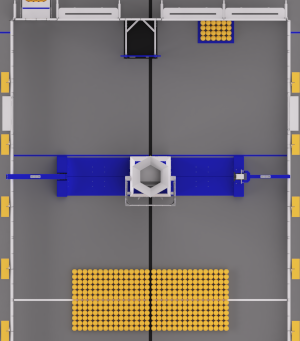
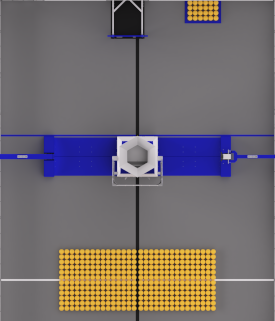
match planner stats

Changed region(s): [[0.0, 0.0, 1.0, 1.0]]

diff --git a/www/2026/aggregate-stats.js b/www/2026/aggregate-stats.js
@@ -46,7 +46,6 @@ function aggregateStats(scout, aggregate, apiScores, subjective, pit, eventStats
 	scout.bump_outpost_alliance_to_neutral = scout.auto_bump_outpost_alliance_to_neutral + scout.tele_bump_outpost_alliance_to_neutral
 	scout.bump_outpost_neutral_to_alliance = scout.auto_bump_outpost_neutral_to_alliance + scout.tele_bump_outpost_neutral_to_alliance
 	scout.climb_level = scout.auto_climb_level + scout.tele_climb_level
-	scout.climb_position = scout.auto_climb_position + scout.tele_climb_position
 	scout.collect_depot = scout.auto_collect_depot + scout.tele_fuel_alliance_dump
 	scout.collect_outpost = scout.auto_collect_outpost + scout.tele_fuel_outpost
 	scout.fuel_neutral_alliance_pass = scout.auto_fuel_neutral_alliance_pass + scout.tele_fuel_neutral_alliance_pass
@@ -152,6 +151,12 @@ function aggregateStats(scout, aggregate, apiScores, subjective, pit, eventStats
 	aggregate.count = (aggregate.count||0)+1
 	aggregate.max_score = Math.max(aggregate.max_score||0,scout.score||0)
 	aggregate.min_score = Math.min(aggregate.min_score===undefined?999:aggregate.min_score,scout.score||0)
+
+	pit.auto_paths=[]
+	for (var i=1; i<=9; i++){
+		var path=pit[`auto_${i}_path`]
+		if (path) pit.auto_paths.push(path)
+	}
 }
 
 var statInfo={
@@ -466,7 +471,15 @@ var statInfo={
 	},
 	auto_climb_position:{
 		en: 'Climb Position in Auto',
-		type: '%',
+		type: 'heatmap',
+		image: "/2026/climb-area-blue.png",
+		aspect_ratio: 1,
+		whiteboard_start: 0,
+		whiteboard_end: 12,
+		whiteboard_left: 35,
+		whiteboard_right: 72,
+		whiteboard_char: "A",
+		whiteboard_us: true,
 		fr:'Position d\'escalade en auto',
 		pt:'Posição de escalada no Auto',
 		zh_tw:'自動攀爬位置',
@@ -510,13 +523,19 @@ var statInfo={
 		he:'ציון דלק באוטומט',
 	},
 	auto_start:{
-		en: 'Start in Auto',
-		type: '%',
-		fr:'Démarrer en auto',
-		pt:'Iniciar no Auto',
-		zh_tw:'自動開始',
-		tr:'Otomatik Başlangıç',
-		he:'התחל באוטומט',
+		name: "Location where the robot starts",
+		type: "heatmap",
+		image: "/2025/start-area-blue.png",
+		aspect_ratio: 3.375,
+		whiteboard_start: 15.5,
+		whiteboard_end: 30.5,
+		whiteboard_char: "□",
+		whiteboard_us: true,
+		fr:'Lieu de départ du robot',
+		pt:'Local onde o robô começa',
+		zh_tw:'機器人啟動的位置',
+		tr:'Robotun başladığı yer',
+		he:'המיקום שבו הרובוט מתחיל',
 	},
 	auto_trench_depot_alliance_to_neutral:{
 		en: 'Trench (Depot Side) Alliance To Neutral in Auto',
@@ -690,7 +709,15 @@ var statInfo={
 	},
 	tele_climb_position:{
 		en: 'Climb Position in Teleop',
-		type: '%',
+		type: 'heatmap',
+		image: "/2026/climb-area-blue.png",
+		aspect_ratio: 1,
+		whiteboard_start: 0,
+		whiteboard_end: 12,
+		whiteboard_left: 35,
+		whiteboard_right: 72,
+		whiteboard_char: "T",
+		whiteboard_us: true,
 		fr:'Position d\'escalade en téléop',
 		pt:'Posição de escalada no Teleop',
 		zh_tw:'遙控攀爬位置',
@@ -1101,15 +1128,6 @@ var statInfo={
 		zh_tw:'攀爬等級',
 		tr:'Tırmanma Seviyesi',
 		he:'רמת טיפוס',
-	},
-	climb_position:{
-		en:'Climb Position',
-		type:'%',
-		fr:'Position d\'escalade',
-		pt:'Posição de Escalada',
-		zh_tw:'攀爬位置',
-		tr:'Tırmanma Pozisyonu',
-		he:'מיקום טיפוס',
 	},
 	collect_depot:{
 		en:'Collected Depot',
@@ -1588,6 +1606,34 @@ var statInfo={
 		tr:'Rakip Zamanı',
 		he:'זמן יריב',
 	},
+	auto_paths:{
+		name: "Auto Paths",
+		type: "pathlist",
+		aspect_ratio: .916,
+		whiteboard_start: 0,
+		whiteboard_end: 55,
+		whiteboard_us: true,
+		source: "pit",
+		fr:'Trajectoires automatiques',
+		pt:'Caminhos Automáticos',
+		zh_tw:'自動路徑',
+		tr:'Otomatik Yollar',
+		he:'נתיבים אוטומטיים',
+	},
+	shooting_locations:{
+		en:'Defendable Shooting Locations',
+		type: "heatmap",
+		aspect_ratio: .916,
+		whiteboard_start: 0,
+		whiteboard_end: 30,
+		whiteboard_us: false,
+		whiteboard_char: 'D',
+		fr:'Emplacements de tir défendables',
+		pt:'Locais de Tiro Defensáveis',
+		zh_tw:'可防守射擊位置',
+		tr:'Savunulabilir Atış Konumları',
+		he:'מיקומי ירי שניתן להגן עליהם',
+	},
 }
 
 var teamGraphs={
@@ -1697,6 +1743,15 @@ var whiteboardStats=[
 	"score",
 	"auto_score",
 	"tele_score",
+	"fuel_output",
+	"tele_alliance_time",
+	"tele_neutral_time",
+	"tele_opponent_time",
+	"shooting_locations",
+	"auto_climb_position",
+	"tele_climb_position",
+	"auto_start",
+	"auto_paths",
 ]
 
 // https://www.postman.com/firstrobotics/workspace/frc-fms-public-published-workspace/example/13920602-f345156c-f083-4572-8d4a-bee22a3fdea1

diff --git a/www/2026/scout.js b/www/2026/scout.js
@@ -997,10 +997,7 @@ $(document).ready(function(){
 	})
 	window.onShowScouting = window.onShowScouting || []
 	window.onShowScouting.push(function(){
-		setTimeout(initialRobotStartPosition,500)
-		setTimeout(initialRobotAutoClimbPosition,500)
-		setTimeout(initialRobotTeleClimbPosition,500)
-		setTimeout(drawAllShootingLocations,500)
+		setTimeout(initialRobotStartPosition,0)
 		initScouting2026()
 		renderTimeline()
 		return true
@@ -1020,6 +1017,16 @@ $(document).ready(function(){
 	window.onInputChanged.push(inputChanged2026)
 
 	onApplyTranslation.push(renderTimeline)
+
+	window.onShowTab = window.onShowTab || []
+	window.onShowTab.push(function(tabName){
+		if (tabName==='end-game'){
+			setTimeout(drawAllShootingLocations, 0)
+			setTimeout(initialRobotAutoClimbPosition, 0)
+			setTimeout(initialRobotTeleClimbPosition, 0)
+			toggleClimbPosition()
+		}
+	})
 
 	function initScouting2026(){
 		matchStartTime = 0
@@ -1189,28 +1196,28 @@ $(document).ready(function(){
 
 	function initialRobotStartPosition(){
 		moveFloaterToPercentCoordinates(
-			document.getElementById('start-area'),
+			$('#start-area')[0],
 			pos.startsWith('R'),
 			$('#auto-start-input').val()||"6x16",
-			document.getElementById('robot-starting-position')
+			$('#robot-starting-position')[0]
 		)
 	}
 
 	function initialRobotAutoClimbPosition(){
 		moveFloaterToPercentCoordinates(
-			document.getElementById('auto-climb-area'),
+			$('#auto-climb-area')[0],
 			pos.startsWith('R'),
-			$('#auto-climb-position-input').val()||"50x50",
-			document.getElementById('robot-auto-climb-position')
+			$('#auto-climb-position-input').val()||"6x6",
+			$('#robot-auto-climb-position')[0]
 		)
 	}
 
 	function initialRobotTeleClimbPosition(){
 		moveFloaterToPercentCoordinates(
-			document.getElementById('tele-climb-area'),
+			$('#tele-climb-area')[0],
 			pos.startsWith('R'),
-			$('#tele-climb-position-input').val()||"50x50",
-			document.getElementById('robot-tele-climb-position')
+			$('#tele-climb-position-input').val()||"6x6",
+			$('#robot-tele-climb-position')[0]
 		)
 	}
 
@@ -1234,9 +1241,9 @@ $(document).ready(function(){
 	}
 
 	function setRobotStartPosition(e){
-		var mi = document.getElementById('start-area'),
-		fi = document.getElementById('robot-starting-position'),
-		ir = "none"==(""+getComputedStyle($('#start-area')[0]).transform),
+		var mi = $('#start-area')[0],
+		fi = $('#robot-starting-position')[0],
+		ir = "none"==(""+getComputedStyle(mi).transform),
 		co = getPercentCoordinates(e,mi,ir,ir,true)
 		moveFloaterToPercentCoordinates(mi,ir,co,fi)
 		$('#auto-start-input').val(co)
@@ -1249,9 +1256,9 @@ $(document).ready(function(){
 	$('#start-area').click(setRobotStartPosition)
 
 	function setRobotAutoClimbPosition(e){
-		var mi = document.getElementById('auto-climb-area'),
-		fi = document.getElementById('robot-auto-climb-position'),
-		ir = "none"==(""+getComputedStyle($('#auto-climb-area')[0]).transform),
+		var mi = $('#auto-climb-area')[0],
+		fi = $('#robot-auto-climb-position')[0],
+		ir = "none"==(""+getComputedStyle(mi).transform),
 		co = getPercentCoordinates(e,mi,ir,ir,true)
 		moveFloaterToPercentCoordinates(mi,ir,co,fi)
 		$('#auto-climb-position-input').val(co)
@@ -1264,9 +1271,9 @@ $(document).ready(function(){
 	$('#auto-climb-area').click(setRobotAutoClimbPosition)
 
 	function setRobotTeleClimbPosition(e){
-		var mi = document.getElementById('tele-climb-area'),
-		fi = document.getElementById('robot-tele-climb-position'),
-		ir = "none"==(""+getComputedStyle($('#tele-climb-area')[0]).transform),
+		var mi = $('#tele-climb-area')[0],
+		fi = $('#robot-tele-climb-position')[0],
+		ir = "none"==(""+getComputedStyle(mi).transform),
 		co = getPercentCoordinates(e,mi,ir,ir,true)
 		moveFloaterToPercentCoordinates(mi,ir,co,fi)
 		$('#tele-climb-position-input').val(co)
@@ -1292,7 +1299,7 @@ $(document).ready(function(){
 	}
 
 	$('#shooting-locations').click(function(e){
-		var mi = document.getElementById('shooting-locations'),
+		var mi = $('#shooting-locations')[0],
 		isRotated = "none"==(""+getComputedStyle(mi).transform),
 		co = getPercentCoordinates(e,mi,isRotated,isRotated,true),
 		val = $('#shooting-locations-input').val()

diff --git a/www/planner.js b/www/planner.js
@@ -382,8 +382,11 @@ $(document).ready(function(){
 					char = fieldInfo.whiteboard_char||"&",
 					start = (fieldInfo.whiteboard_start||0)/100,
 					end = (fieldInfo.whiteboard_end||100)/100,
+					sLeft = (fieldInfo.whiteboard_left||0)/100,
+					sRight = (fieldInfo.whiteboard_right||100)/100,
 					invert = !!fieldInfo.whiteboard_invert,
 					height = end - start,
+					width = sRight - sLeft,
 					whiteboard = $('#field'),
 					whiteboardBounds = whiteboard[0].getBoundingClientRect(),
 					source = fieldInfo.source,
@@ -411,11 +414,14 @@ $(document).ready(function(){
 								if (m && m.length){
 									[left, top] = m.slice(1).map(x=>parseInt(x)/100)
 									if (invert)[left, top] = [top, left]
-									if (!atBottom && window.fieldRotationalSymmetry) left = 1 - left
+									if (!atBottom && window.fieldRotationalSymmetry){
+										left=1-left
+										sLeft=1-sRight
+									}
 									var point = $('<div class=overlay>').html(char).css(...style)
 									whiteboard.append(point)
 									var pointBounds = point[0].getBoundingClientRect()
-									left = Math.round(left * whiteboardBounds.width - pointBounds.width/2)
+									left = Math.round(left * whiteboardBounds.width * width + sLeft * whiteboardBounds.width - pointBounds.width/2)
 									top = Math.round(top * whiteboardBounds.height * height + start * whiteboardBounds.height - pointBounds.height/2)
 									point.css(atBottom?"bottom":"top",`${top}px`).css('left',`${left}px`)
 								}

diff --git a/www/2026/scout.html b/www/2026/scout.html
@@ -402,7 +402,7 @@
 			<fieldset class=full id=auto-climb-position-fieldset>
 				<legend data-i18n=auto_climb_legend></legend>
 				<div id=auto-climb-area class=orient-rotate><div id=robot-auto-climb-position></div></div>
-				<input id=auto-climb-position-input type=hidden name=auto_climb_position>
+				<input id=auto-climb-position-input type=text name=auto_climb_position>
 			</fieldset>
 			<fieldset class=full id=tele-climb-position-fieldset>
 				<legend data-i18n=tele_climb_legend></legend>

diff --git a/www/2025/aggregate-stats.js b/www/2025/aggregate-stats.js
@@ -274,11 +274,6 @@ var statInfo={
 		name: "Location where the robot starts",
 		type: "heatmap",
 		image: "/2025/start-area-blue.png",
-		tr:'',
-		pt:'',
-		fr:'',
-		he:'',
-		zh_tw:'',
 		aspect_ratio: 3.375,
 		whiteboard_start: 35.8,
 		whiteboard_end: 50,
@@ -1859,11 +1854,6 @@ var statInfo={
 	auto_paths:{
 		name: "Auto Paths",
 		type: "pathlist",
-		tr:'',
-		pt:'',
-		fr:'',
-		he:'',
-		zh_tw:'',
 		aspect_ratio: .916,
 		whiteboard_start: 0,
 		whiteboard_end: 50,

diff --git a/www/scout.js b/www/scout.js
@@ -1339,6 +1339,11 @@ function showTab(event, tab){
 	$('.tab-content').hide()
 	$(`.${name}`).show()
 	if(button.is('.tab-button')) window.scrollTo(tab.offset())
+	if(window.onShowTab){
+		for(var i=0; i<window.onShowTab.length; i++){
+			if(!window.onShowTab[i](name)) return false
+		}
+	}
 	return false
 }
 
